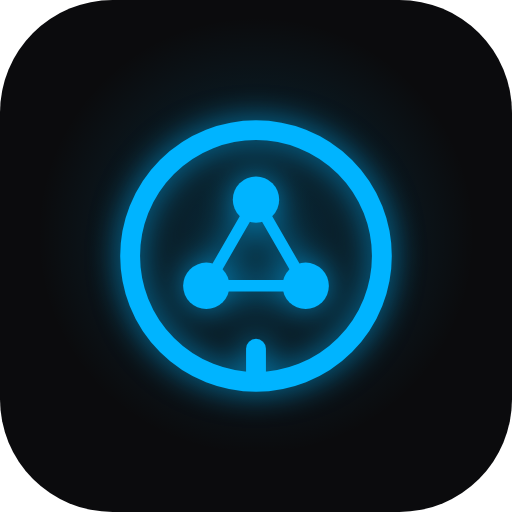
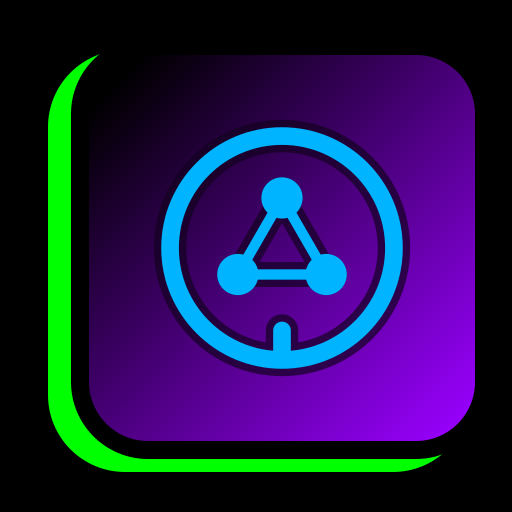
Icono nuevo de pestaña y de app en el estilo de placa de la familia AVHUB

diff --git a/index.html b/index.html
@@ -14,7 +14,7 @@
   <title>SYSTEMS</title>
   <meta name="description" content="SYSTEMS: la electrónica, la señal, el audio y la videoconferencia de un proyecto AV, con el esquema, el resultado y el despiece de los equipos.">
   <meta name="theme-color" content="#232325">
-  <link rel="icon" href="assets/favicon.svg" type="image/svg+xml">
+  <link rel="icon" href="assets/systems-icono-placa.svg?v=placa" type="image/svg+xml">
   <link rel="manifest" href="manifest.json">
   <link rel="apple-touch-icon" href="assets/iconos/systems-180.png">
   <link rel="stylesheet" href="vista/iconos.css?v=1.9">

diff --git a/README.md b/README.md
@@ -4,6 +4,11 @@
 
 **Versión actual: v1.9 (beta, en pruebas)** · Dirección definitiva: https://systems.mediaservi.com
 
+
+## Icono
+
+Icono de pestaña y de app (noviembre 2026) en el estilo de placa de la familia AVHUB: placa con degradado negro a morado, filete negro y sombra verde, con el isotipo de la app. El logo de la cabecera no cambia.
+
 ## Para qué sirve
 
 Reúne en una sola consola los cálculos que se hacen al diseñar y montar un sistema audiovisual, con los equipos de las marcas del catálogo. Funciona en el navegador, en español, inglés y catalán, y en TV, ordenador, tablet y móvil.
